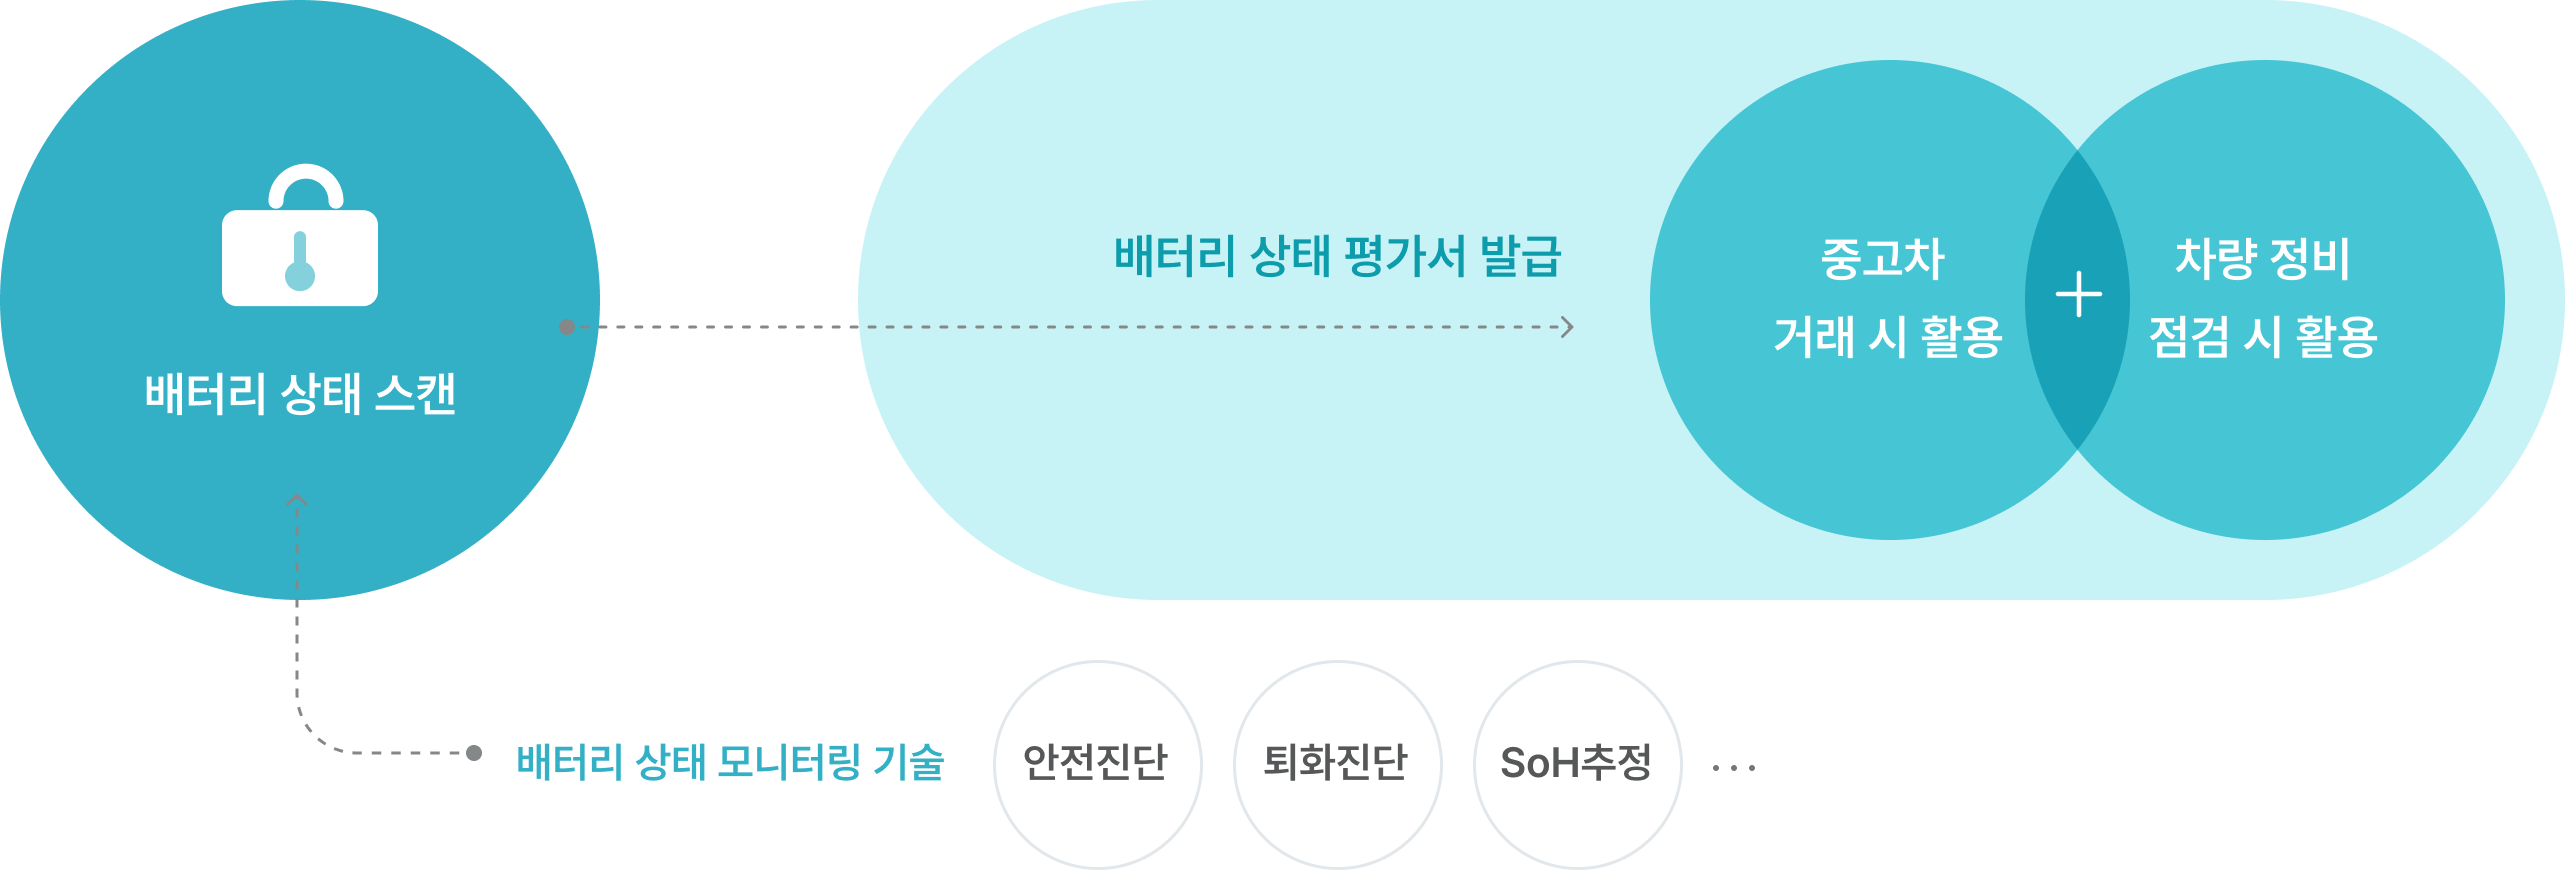
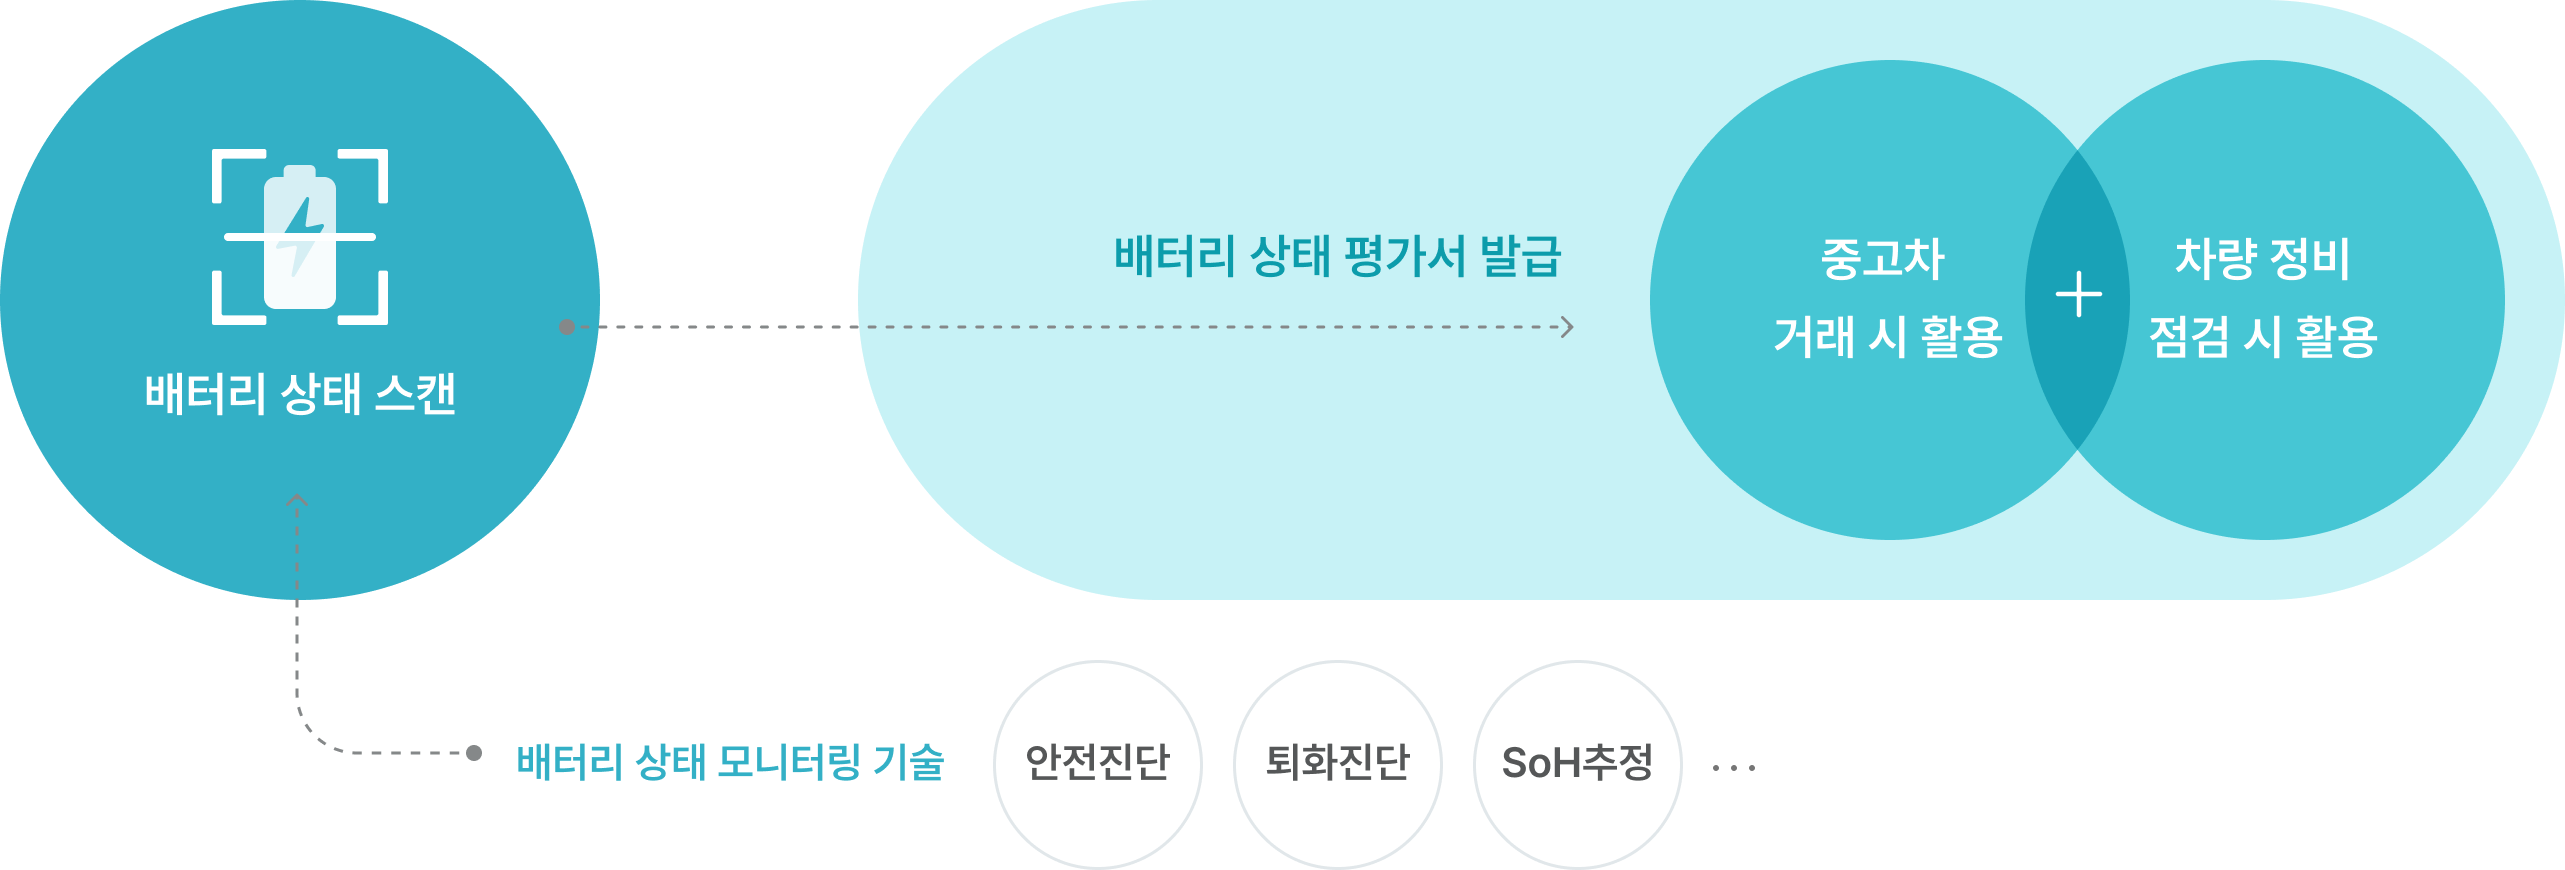
서비스 > B-once 이미지 교체

diff --git a/public/src/pages/serv/serv_bonce_01.html b/public/src/pages/serv/serv_bonce_01.html
@@ -460,7 +460,7 @@
                                                             <!-- lottie : 추후 관련 로티 디자인 수급 후 json 파일 교체 필요 -->
                                                             <!-- <img src="../../../inc/images/img/serv04_img_02.png" class="adv-img"> -->
                                                             <div class="lottie-wrap">
-                                                                <lottie-player src="../../../inc/images/lottie/icon_Series-01.json" background="transparent"  speed="1" loop autoplay></lottie-player>
+                                                                <lottie-player src="../../../inc/images/lottie/Serv3b_once01.json" background="transparent"  speed="1" loop autoplay></lottie-player> <!-- 09.03 / 로티 json src 변경 -->
                                                             </div>
                                                             <!--//lottie-->
                                                             <span class="adv-tit">B-Once App</span>
@@ -477,7 +477,7 @@
                                                             <!-- lottie : 추후 관련 로티 디자인 수급 후 json 파일 교체 필요 -->
                                                             <!-- <img src="../../../inc/images/img/serv04_img_03.png" class="adv-img"> -->
                                                             <div class="lottie-wrap">
-                                                                <lottie-player src="../../../inc/images/lottie/icon_Series-02.json" background="transparent"  speed="1" loop autoplay></lottie-player>
+                                                                <lottie-player src="../../../inc/images/lottie/Serv3b_once02.json" background="transparent"  speed="1" loop autoplay></lottie-player> <!-- 09.03 / 로티 json src 변경 -->
                                                             </div>
                                                             <!--//lottie-->
                                                             <span class="adv-tit">API</span>
@@ -493,7 +493,7 @@
                                                             <!-- lottie : 추후 관련 로티 디자인 수급 후 json 파일 교체 필요 -->
                                                             <!-- <img src="../../../inc/images/img/serv04_img_04.png" class="adv-img"> -->
                                                             <div class="lottie-wrap">
-                                                                <lottie-player src="../../../inc/images/lottie/icon_Series-03.json" background="transparent"  speed="1" loop autoplay></lottie-player>
+                                                                <lottie-player src="../../../inc/images/lottie/Serv3b_once03.json" background="transparent"  speed="1" loop autoplay></lottie-player> <!-- 09.03 / 로티 json src 변경 -->
                                                             </div>
                                                             <!--//lottie-->
                                                             <span class="adv-tit">Mail</span>

diff --git a/public/src/pages/serv/serv_bonce_01_mo.html b/public/src/pages/serv/serv_bonce_01_mo.html
@@ -127,7 +127,7 @@
                                                             <!-- lottie : 추후 관련 로티 디자인 수급 후 json 파일 교체 필요 -->
                                                             <!-- <img src="../../../inc/images/img/serv04_img_02.png" class="adv-img"> -->
                                                             <div class="lottie-wrap">
-                                                                <lottie-player src="../../../inc/images/lottie/icon_Series-01.json" background="transparent"  speed="1" loop autoplay></lottie-player>
+                                                                <lottie-player src="../../../inc/images/lottie/Serv3b_once01.json" background="transparent"  speed="1" loop autoplay></lottie-player> <!-- 09.03 / 로티 json src 변경 -->
                                                             </div>
                                                             <!--//lottie-->
                                                             <span class="adv-tit">B-Once App</span>
@@ -143,7 +143,7 @@
                                                             <!-- lottie : 추후 관련 로티 디자인 수급 후 json 파일 교체 필요 -->
                                                             <!-- <img src="../../../inc/images/img/serv04_img_03.png" class="adv-img"> -->
                                                             <div class="lottie-wrap">
-                                                                <lottie-player src="../../../inc/images/lottie/icon_Series-02.json" background="transparent"  speed="1" loop autoplay></lottie-player>
+                                                                <lottie-player src="../../../inc/images/lottie/Serv3b_once02.json" background="transparent"  speed="1" loop autoplay></lottie-player> <!-- 09.03 / 로티 json src 변경 -->
                                                             </div>
                                                             <!--//lottie-->
                                                             <span class="adv-tit">API</span>
@@ -159,7 +159,7 @@
                                                             <!-- lottie : 추후 관련 로티 디자인 수급 후 json 파일 교체 필요 -->
                                                             <!-- <img src="../../../inc/images/img/serv04_img_04.png" class="adv-img"> -->
                                                             <div class="lottie-wrap">
-                                                                <lottie-player src="../../../inc/images/lottie/icon_Series-03.json" background="transparent"  speed="1" loop autoplay></lottie-player>
+                                                                <lottie-player src="../../../inc/images/lottie/Serv3b_once03.json" background="transparent"  speed="1" loop autoplay></lottie-player> <!-- 09.03 / 로티 json src 변경 -->
                                                             </div>
                                                             <!--//lottie-->
                                                             <span class="adv-tit">Mail</span>

diff --git a/public/inc/css/Default/pages.css b/public/inc/css/Default/pages.css
@@ -1861,7 +1861,7 @@
 .service .article-content .article-desc { padding: 1.88rem 0; font-size: 1.25rem; line-height: 2rem; }
 .adv-wrap, .serv-trading .service-wrap { display: flex; flex-wrap: wrap; gap: 1.25rem; margin-top: 1.88rem;}
 .adv-wrap .adv-box { display: flex; flex-direction: column; align-items: center; justify-content: space-between; gap: 1.25rem; width: calc(33.33% - 1rem); padding: 2.5rem; border: 2px solid #E1E7EA; border-radius: 1rem; }
-.adv-wrap .adv-box .adv-img {width: 5rem; height: 5rem;}
+.adv-wrap .adv-box .lottie-wrap {width: 5rem; height: 5rem;}
 .adv-wrap .adv-box .adv-tit { font-size: 1.25rem; font-weight: 600; line-height: 2rem; color: #171819; text-align: center; }
 .adv-wrap .adv-box .adv-desc { font-size: 1rem; line-height: 1.6rem; color: #555758; text-align: center; }
 .serv-trading .service-wrap .service-box { width: calc(50% - .625rem); padding: 2.5rem 2.5rem 3.75rem; border: 2px solid #E1E7EA; border-radius: 1rem; background-color: #fff; }
